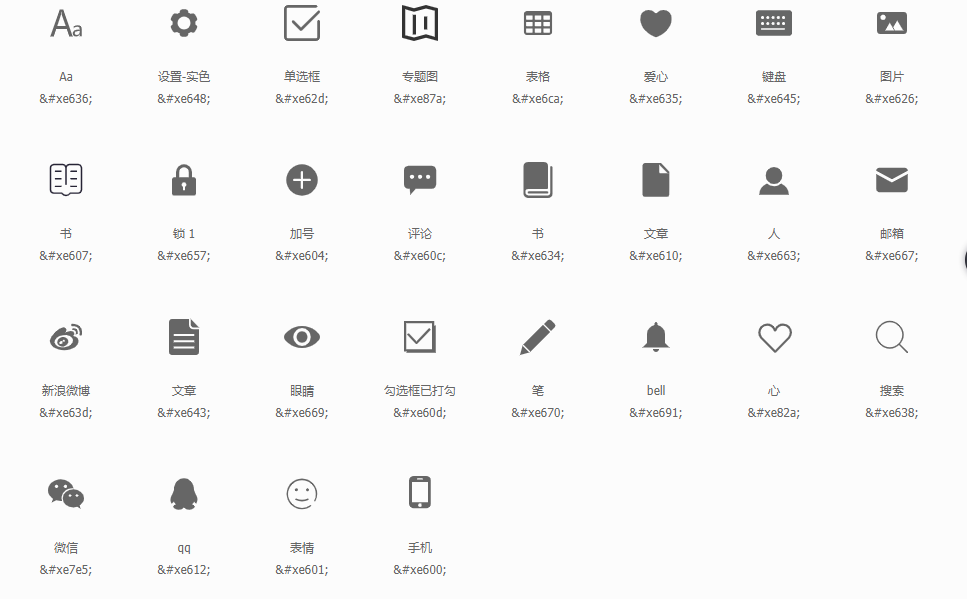
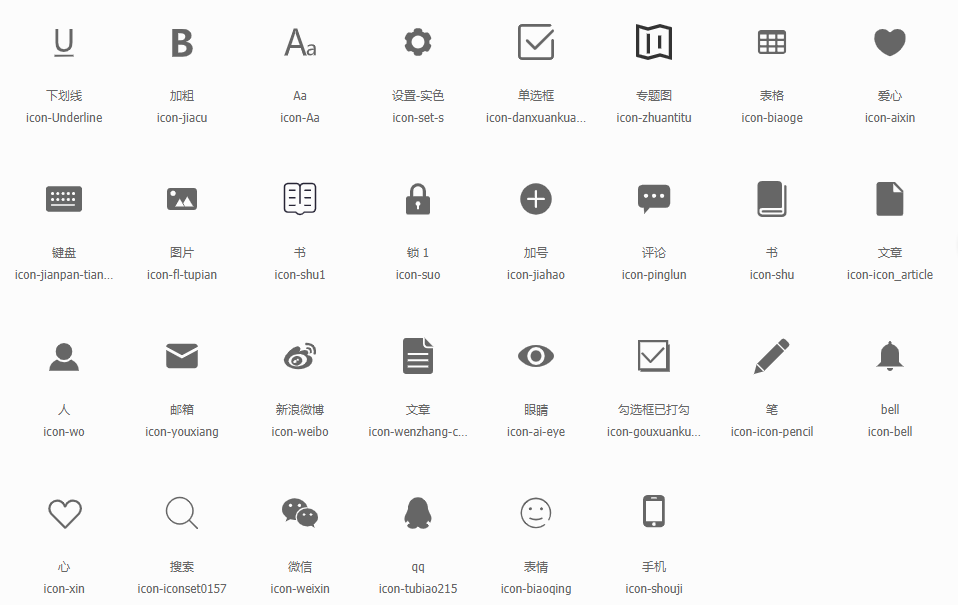
图标

diff --git a/前后台/qiantai/src/statics/iconfont/iconfont.css b/前后台/qiantai/src/statics/iconfont/iconfont.css
@@ -1,10 +1,10 @@
 @font-face {font-family: "iconfont";
-  src: url('iconfont.eot?t=1557735998247'); /* IE9 */
-  src: url('iconfont.eot?t=1557735998247#iefix') format('embedded-opentype'), /* IE6-IE8 */
[1 lines of base64/hex data omitted]
-  url('iconfont.woff?t=1557735998247') format('woff'),
-  url('iconfont.ttf?t=1557735998247') format('truetype'), /* chrome, firefox, opera, Safari, Android, iOS 4.2+ */
-  url('iconfont.svg?t=1557735998247#iconfont') format('svg'); /* iOS 4.1- */
+  src: url('iconfont.eot?t=1557792762436'); /* IE9 */
+  src: url('iconfont.eot?t=1557792762436#iefix') format('embedded-opentype'), /* IE6-IE8 */
[1 lines of base64/hex data omitted]
+  url('iconfont.woff?t=1557792762436') format('woff'),
+  url('iconfont.ttf?t=1557792762436') format('truetype'), /* chrome, firefox, opera, Safari, Android, iOS 4.2+ */
+  url('iconfont.svg?t=1557792762436#iconfont') format('svg'); /* iOS 4.1- */
 }
 
 .iconfont {
@@ -45,6 +45,10 @@
 
 .icon-icon-pencil:before {
   content: "\e670";
+}
+
+.icon-jiacu:before {
+  content: "\e61e";
 }
 
 .icon-gouxuankuangyidagou:before {
@@ -121,6 +125,10 @@
 
 .icon-danxuankuang:before {
   content: "\e62d";
+}
+
+.icon-Underline:before {
+  content: "\e628";
 }
 
 .icon-set-s:before {

diff --git a/前后台/qiantai/src/pages/detail/index.js b/前后台/qiantai/src/pages/detail/index.js
@@ -56,7 +56,7 @@ class Detail extends PureComponent {
                     &nbsp;&nbsp;&nbsp;&nbsp;你需要了解到，公司对你或者说这个岗位的人的定位是什么？有没有什么计划，未来3年有什么目标，需要达成什么结果，这个岗位的人向谁汇报工作等这些问题。这些问题涉及到你个人在这家公司的成长问题，有可能也将决定你未来是否偏向技术型人才还是管理型人才。如果这些问题没有了解清楚，如何给自己的薪资报价?  <br />
                     详细询问这些问题后，你再报出期望薪资都不迟。
                     <div className="like">
-                        喜欢&nbsp;|&nbsp;376
+                        喜欢&nbsp;&nbsp;|&nbsp;&nbsp;376
                     </div>
                 </DArticle>
 
